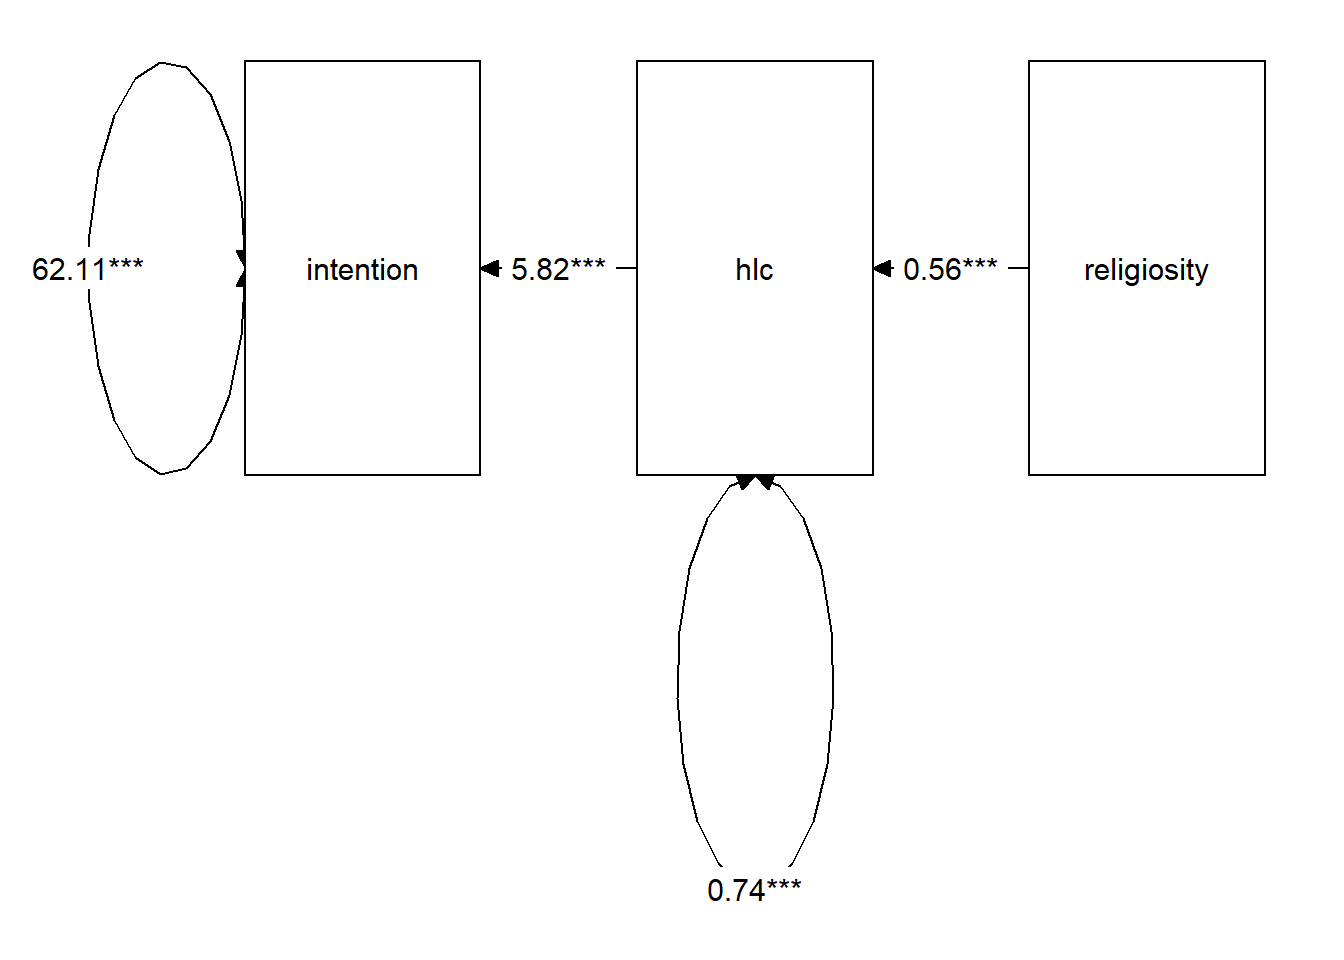
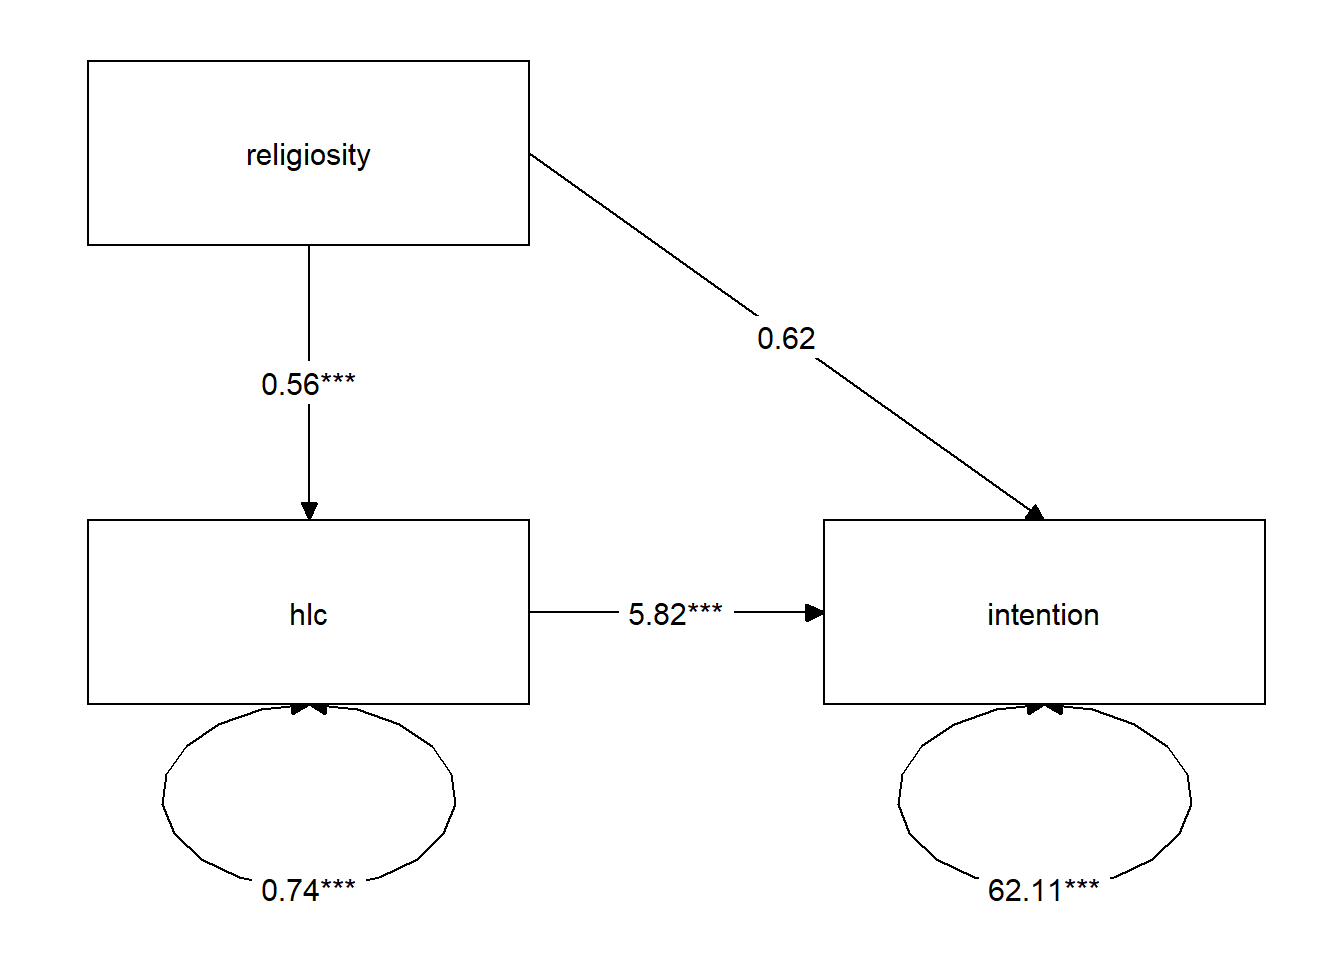
work laptop not happy.

diff --git a/docs/labs/08_path2.html b/docs/labs/08_path2.html
@@ -457,7 +457,7 @@ div.tocify {
       <a href="07_path1.html">7: Path Analysis</a>
     </li>
     <li>
-      <a href="08_path2.html">8: Path Analysis</a>
+      <a href="08_path2.html">8: Path Mediation</a>
     </li>
     <li class="dropdown-header">9: Dimension Reduction</li>
     <li class="dropdown-header">10: EFA 1</li>
@@ -665,19 +665,19 @@ Instead, bootstrapping has become the norm for assessing sampling distributions 
 ## Regressions:
 ##                    Estimate  Std.Err  z-value  P(&gt;|z|) ci.lower ci.upper
 ##   intention ~                                                           
-##     religiosty        0.616    1.134    0.543    0.587   -1.644    2.716
-##     hlc        (a)    5.823    0.976    5.968    0.000    3.901    7.647
+##     religiosty        0.616    1.110    0.555    0.579   -1.757    2.655
+##     hlc        (a)    5.823    0.949    6.133    0.000    3.969    7.765
 ##   hlc ~                                                                 
-##     religiosty (b)    0.557    0.086    6.511    0.000    0.381    0.723
+##     religiosty (b)    0.557    0.085    6.566    0.000    0.394    0.709
 ## 
 ## Variances:
 ##                    Estimate  Std.Err  z-value  P(&gt;|z|) ci.lower ci.upper
-##    .intention        62.112    7.996    7.768    0.000   44.626   76.700
-##    .hlc               0.741    0.103    7.183    0.000    0.538    0.946
+##    .intention        62.112    7.670    8.098    0.000   45.800   75.738
+##    .hlc               0.741    0.104    7.124    0.000    0.535    0.951
 ## 
 ## Defined Parameters:
 ##                    Estimate  Std.Err  z-value  P(&gt;|z|) ci.lower ci.upper
-##     indirect          3.243    0.721    4.500    0.000    1.852    4.741</code></pre>
+##     indirect          3.243    0.712    4.555    0.000    2.026    4.796</code></pre>
 <div class="int">
 <p>We can see that the 95% bootstrapped confidence interval for the indirect effect of religiosity on intention to vaccinate does not include zero. We can conclude that the indirect effect is significant at <span class="math inline">\(p &lt;.05\)</span>. The direct effect is <strong>not</strong> significantly different from zero, suggesting that we have <strong>complete mediation</strong> (religiosity has <em>no</em> effect on intention to vaccinate after controlling for health locus of control).</p>
 </div>
@@ -695,7 +695,7 @@ Our mediating model is shown below:</p>
 <p>Finally, we can visualise the estimates for our model using the <code>semPaths()</code> function from the <strong>semPlot</strong> package, and also with the <code>graph_sem()</code> function from the <strong>tidySEM</strong> package.<br />
 <em>Often, if we want to include a path diagram in a report then the output of these functions would not usually meet publication standards, and instead we tend to draw them in programs like powerpoint!)</em></p>
 <div class="sourceCode" id="cb11"><pre class="sourceCode r"><code class="sourceCode r"><span id="cb11-1"><a href="#cb11-1" aria-hidden="true" tabindex="-1"></a><span class="fu">library</span>(tidySEM)</span>
-<span id="cb11-2"><a href="#cb11-2" aria-hidden="true" tabindex="-1"></a><span class="fu">graph_sem</span>(mm1.est)</span></code></pre></div>
+<span id="cb11-2"><a href="#cb11-2" aria-hidden="true" tabindex="-1"></a><span class="fu">graph_sem</span>(mm1.est, <span class="at">layout =</span> <span class="fu">get_layout</span>(mm1.est))</span></code></pre></div>
 <p><img src="08_path2_files/figure-html/unnamed-chunk-10-1.png" width="80%" style="display: block; margin: auto;" /></p>
 </div>
 </div>
@@ -912,19 +912,19 @@ Question A4
 ## Regressions:
 ##                    Estimate  Std.Err  z-value  P(&gt;|z|) ci.lower ci.upper
 ##   Acad ~                                                                
-##     Non_agg           0.158    0.059    2.692    0.007    0.046    0.274
-##     Teach_r    (b)    0.328    0.049    6.673    0.000    0.234    0.424
+##     Non_agg           0.158    0.055    2.851    0.004    0.049    0.263
+##     Teach_r    (b)    0.328    0.047    6.949    0.000    0.243    0.420
 ##   Teach_r ~                                                             
-##     Non_agg    (c)    0.769    0.033   23.271    0.000    0.702    0.836
+##     Non_agg    (c)    0.769    0.033   23.321    0.000    0.699    0.834
 ## 
 ## Variances:
 ##                    Estimate  Std.Err  z-value  P(&gt;|z|) ci.lower ci.upper
-##    .Acad              0.919    0.055   16.665    0.000    0.805    1.024
-##    .Teach_r           0.713    0.042   16.878    0.000    0.632    0.796
+##    .Acad              0.919    0.056   16.374    0.000    0.804    1.024
+##    .Teach_r           0.713    0.044   16.319    0.000    0.624    0.798
 ## 
 ## Defined Parameters:
 ##                    Estimate  Std.Err  z-value  P(&gt;|z|) ci.lower ci.upper
-##     ind               0.252    0.039    6.518    0.000    0.177    0.327</code></pre>
+##     ind               0.252    0.037    6.851    0.000    0.183    0.327</code></pre>
 <p>We can see that the 95% bootstrapped confidence interval for the indirect effect of non-aggressive conduct problems on academic performance (‘ind’) does not include zero. We can conclude that the indirect effect is significant at <span class="math inline">\(p &lt;.05\)</span>. The direct effect is also statistically significant at <span class="math inline">\(p &lt; .05\)</span>.</p>
 </div>
 <p class="solution-end">
@@ -983,20 +983,20 @@ Question A5
 ## Regressions:
 ##                    Estimate  Std.Err  z-value  P(&gt;|z|) ci.lower ci.upper
 ##   Acad ~                                                                
-##     Non_agg    (a)    0.158    0.056    2.813    0.005    0.046    0.263
-##     Teach_r    (b)    0.328    0.048    6.798    0.000    0.235    0.417
+##     Non_agg    (a)    0.158    0.059    2.694    0.007    0.042    0.274
+##     Teach_r    (b)    0.328    0.049    6.744    0.000    0.224    0.421
 ##   Teach_r ~                                                             
-##     Non_agg    (c)    0.769    0.032   23.692    0.000    0.707    0.833
+##     Non_agg    (c)    0.769    0.033   23.439    0.000    0.707    0.833
 ## 
 ## Variances:
 ##                    Estimate  Std.Err  z-value  P(&gt;|z|) ci.lower ci.upper
-##    .Acad              0.919    0.056   16.525    0.000    0.804    1.026
-##    .Teach_r           0.713    0.045   15.963    0.000    0.623    0.800
+##    .Acad              0.919    0.056   16.332    0.000    0.810    1.033
+##    .Teach_r           0.713    0.040   17.804    0.000    0.633    0.784
 ## 
 ## Defined Parameters:
 ##                    Estimate  Std.Err  z-value  P(&gt;|z|) ci.lower ci.upper
-##     ind               0.252    0.038    6.620    0.000    0.177    0.325
-##     total             0.410    0.042    9.812    0.000    0.326    0.490</code></pre>
+##     ind               0.252    0.038    6.616    0.000    0.175    0.324
+##     total             0.410    0.043    9.557    0.000    0.328    0.495</code></pre>
 </div>
 <p class="solution-end">
 </p>
@@ -1015,7 +1015,7 @@ Question A6
 <div class="sourceCode" id="cb23"><pre class="sourceCode r"><code class="sourceCode r"><span id="cb23-1"><a href="#cb23-1" aria-hidden="true" tabindex="-1"></a><span class="co">#to include the parameter estimates we set what=&#39;est&#39;</span></span>
 <span id="cb23-2"><a href="#cb23-2" aria-hidden="true" tabindex="-1"></a><span class="fu">semPaths</span>(model1.est, <span class="at">what =</span> <span class="st">&quot;est&quot;</span>) </span></code></pre></div>
 <p><img src="08_path2_files/figure-html/visualise%20the%20model-1.png" width="80%" style="display: block; margin: auto;" /></p>
-<div class="sourceCode" id="cb24"><pre class="sourceCode r"><code class="sourceCode r"><span id="cb24-1"><a href="#cb24-1" aria-hidden="true" tabindex="-1"></a><span class="fu">graph_sem</span>(model1.est)</span></code></pre></div>
+<div class="sourceCode" id="cb24"><pre class="sourceCode r"><code class="sourceCode r"><span id="cb24-1"><a href="#cb24-1" aria-hidden="true" tabindex="-1"></a><span class="fu">graph_sem</span>(model1.est, <span class="at">layout =</span> <span class="fu">get_layout</span>(model1.est))</span></code></pre></div>
 <p><img src="08_path2_files/figure-html/visualise%20the%20model2-1.png" width="80%" style="display: block; margin: auto;" /></p>
 </div>
 <p class="solution-end">
@@ -1081,22 +1081,22 @@ Question B2
 ## Regressions:
 ##                    Estimate  Std.Err  z-value  P(&gt;|z|) ci.lower ci.upper
 ##   Acad ~                                                                
-##     Agg               0.171    0.061    2.828    0.005    0.053    0.291
-##     Non_agg           0.091    0.062    1.454    0.146   -0.036    0.211
-##     Teach_r    (b)    0.256    0.053    4.846    0.000    0.145    0.357
+##     Agg               0.171    0.061    2.810    0.005    0.052    0.286
+##     Non_agg           0.091    0.062    1.462    0.144   -0.032    0.212
+##     Teach_r    (b)    0.256    0.054    4.743    0.000    0.153    0.357
 ##   Teach_r ~                                                             
-##     Agg       (c1)    0.574    0.046   12.613    0.000    0.485    0.666
-##     Non_agg   (c2)    0.358    0.041    8.637    0.000    0.272    0.438
+##     Agg       (c1)    0.574    0.045   12.794    0.000    0.486    0.665
+##     Non_agg   (c2)    0.358    0.043    8.297    0.000    0.269    0.439
 ## 
 ## Variances:
 ##                    Estimate  Std.Err  z-value  P(&gt;|z|) ci.lower ci.upper
-##    .Acad              0.908    0.058   15.537    0.000    0.786    1.018
-##    .Teach_r           0.540    0.029   18.486    0.000    0.479    0.599
+##    .Acad              0.908    0.059   15.258    0.000    0.783    1.018
+##    .Teach_r           0.540    0.029   18.365    0.000    0.478    0.593
 ## 
 ## Defined Parameters:
 ##                    Estimate  Std.Err  z-value  P(&gt;|z|) ci.lower ci.upper
-##     ind1              0.147    0.033    4.479    0.000    0.080    0.217
-##     ind2              0.092    0.021    4.318    0.000    0.050    0.137</code></pre>
+##     ind1              0.147    0.033    4.508    0.000    0.088    0.212
+##     ind2              0.092    0.023    4.010    0.000    0.052    0.142</code></pre>
 <p>We can see that the 95% confidence intervals for both indirect effects do not include zero, therefore, we can conclude that they are significant at <span class="math inline">\(p &lt; .05\)</span>.</p>
 </div>
 <p class="solution-end">
@@ -1170,10 +1170,10 @@ There are various ways to do this, but the simplest is probably:</p>
 ## Nonparametric Bootstrap Confidence Intervals with the Percentile Method
 ## 
 ##                Estimate 95% CI Lower 95% CI Upper p-value    
-## ACME              3.033        1.866         4.49  &lt;2e-16 ***
-## ADE               0.270       -1.600         2.32    0.83    
-## Total Effect      3.303        1.385         5.39  &lt;2e-16 ***
-## Prop. Mediated    0.918        0.510         1.95  &lt;2e-16 ***
+## ACME              3.033        1.794         4.29  &lt;2e-16 ***
+## ADE               0.270       -1.632         2.46   0.776    
+## Total Effect      3.303        1.355         5.47   0.008 ** 
+## Prop. Mediated    0.918        0.488         1.85   0.008 ** 
 ## ---
 ## Signif. codes:  0 &#39;***&#39; 0.001 &#39;**&#39; 0.01 &#39;*&#39; 0.05 &#39;.&#39; 0.1 &#39; &#39; 1
 ## 
